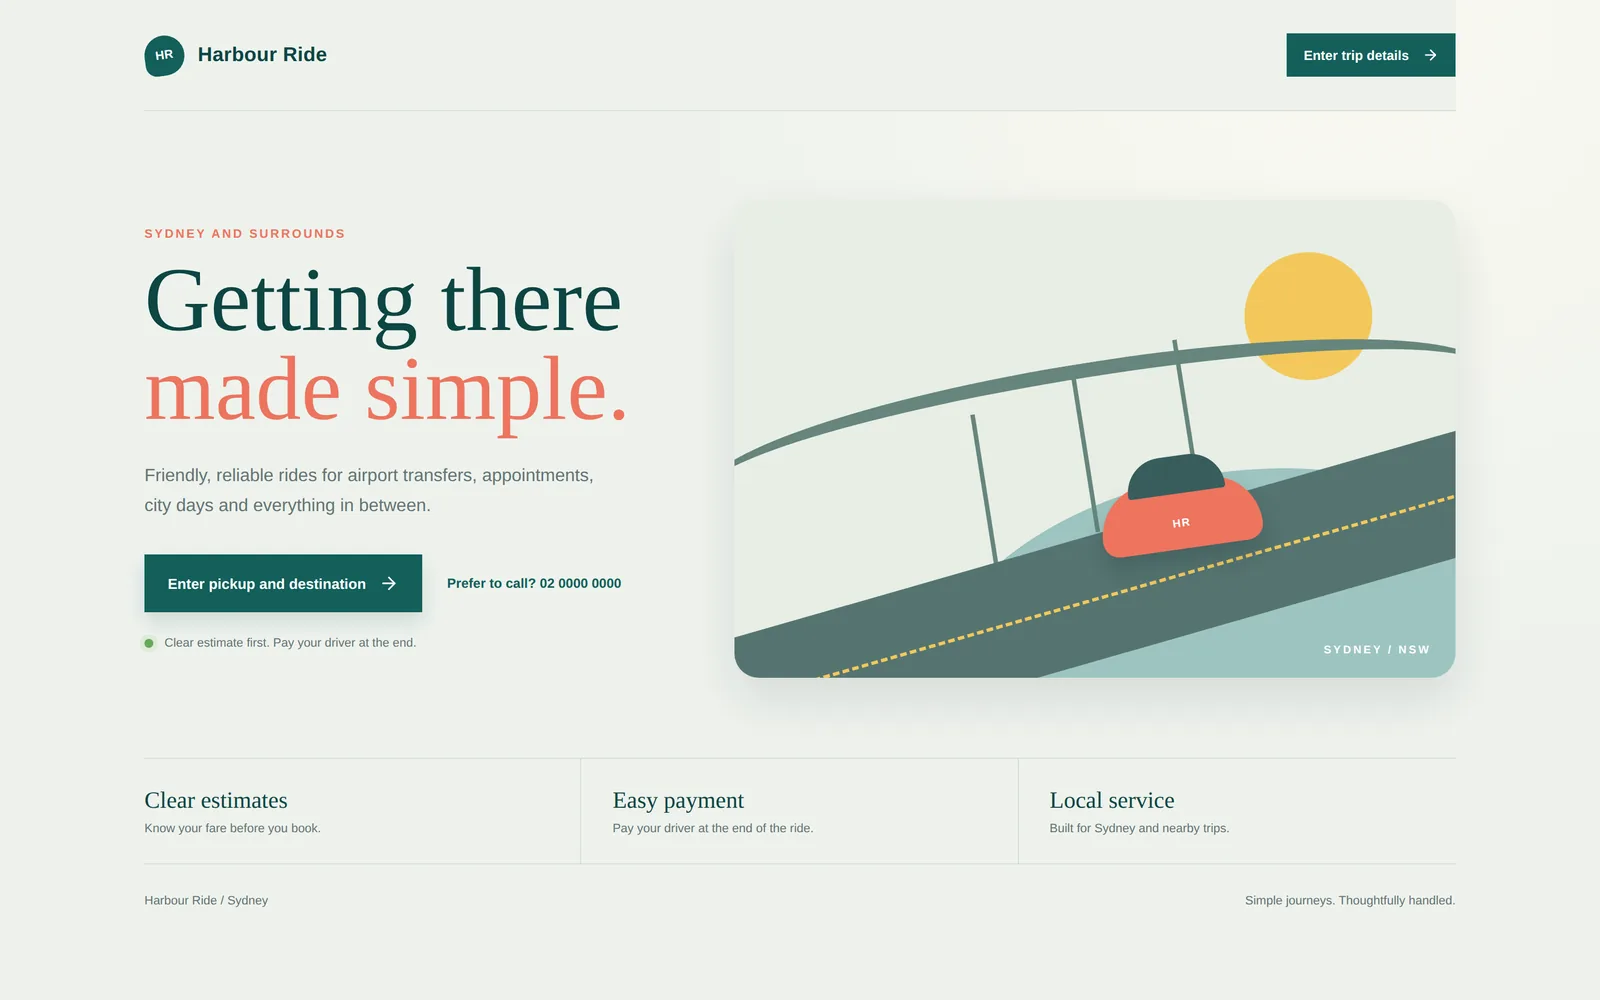
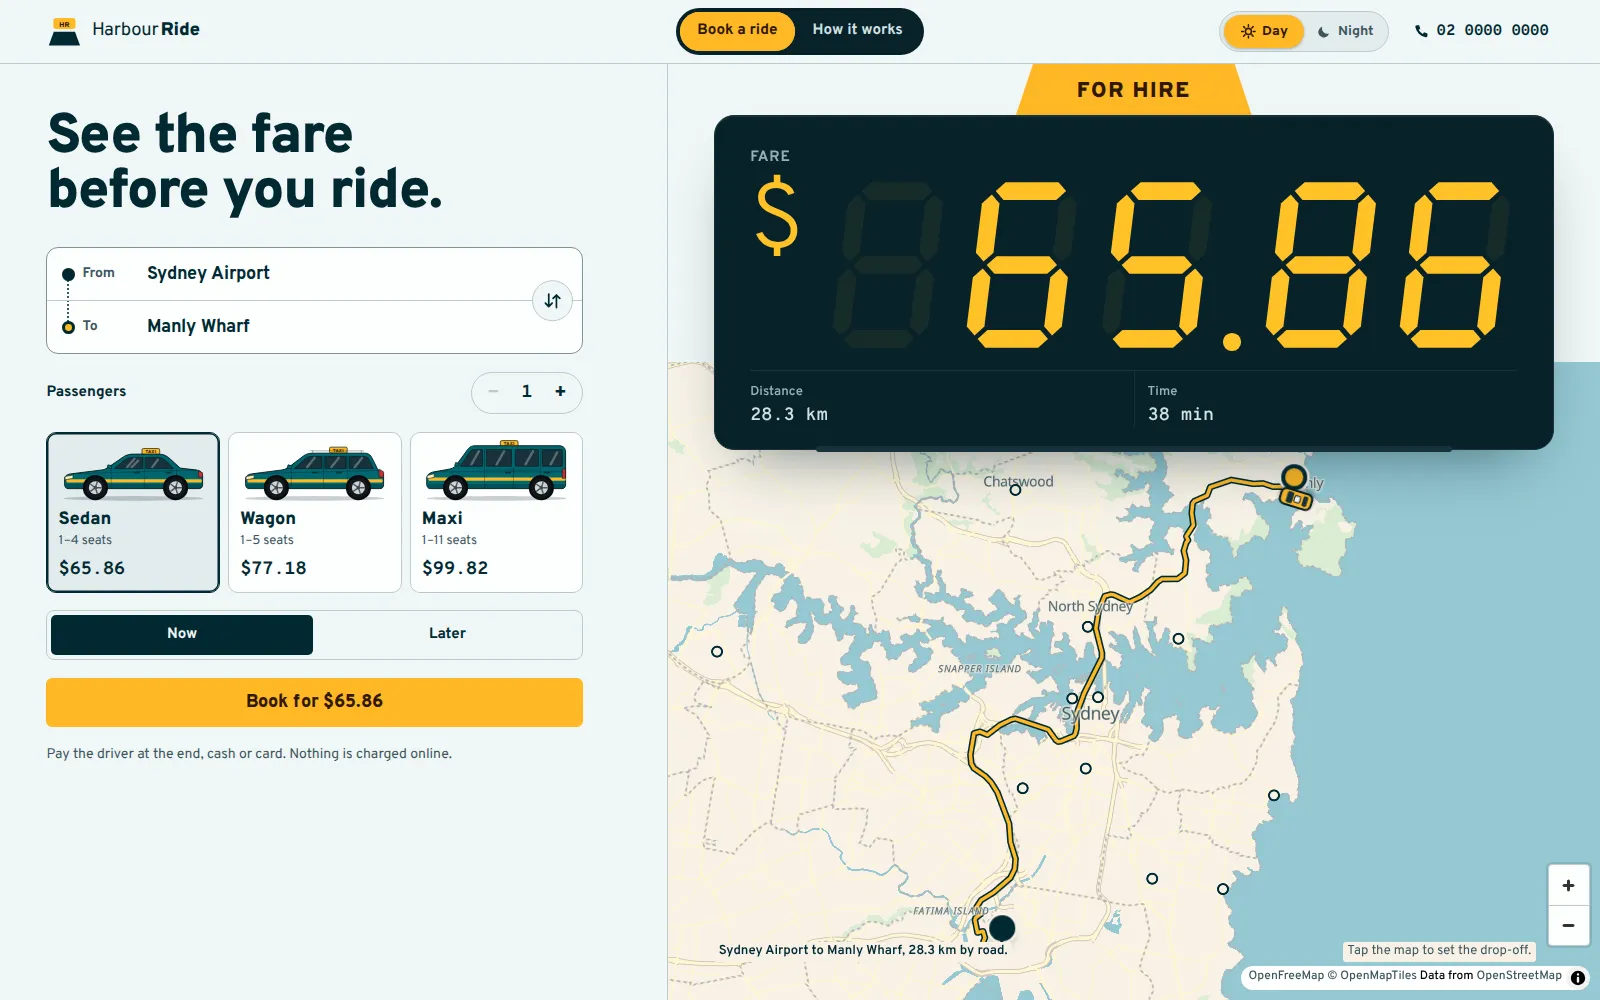
Update Postmen and Harbour Ride sheets for their October redesigns
Postmen: new landing page screenshot, postmark/outbox description, the
security rebuild (private-address blocking, required JWT secret), and
current layers, commit count and dates.

Harbour Ride: new taximeter screenshots, Next.js/MapLibre/Resend stack,
signed quotes, fare formula fix, a live link, and current commit count.

The register and materials lists in data.js are updated to match.

diff --git a/site/index.html b/site/index.html
@@ -107,9 +107,9 @@
     <article class="sheet" id="postmen" data-sheet="A-101" data-sheet-name="Postmen" aria-labelledby="postmen-title">
       <header class="sheet__head">
         <h3 id="postmen-title" class="sheet__title">Postmen</h3>
-        <p class="sheet__kind">API workbench, full stack</p>
+        <p class="sheet__kind">API client, full stack</p>
       </header>
-      <p class="sheet__lede">A Postman-style workbench for testing APIs. Sign in, send any request, read the formatted response, and come back to your history later.</p>
+      <p class="sheet__lede">An API client in the browser. Send a request and the response comes back with a postmark: status, round-trip time and size. Sign in and every request is kept in your outbox.</p>
 
       <div class="sheet__draw">
         <figure class="axo" data-axo aria-describedby="postmen-key">
@@ -122,9 +122,9 @@
                     <div class="pl-erd">
                       <div class="pl-table"><span class="pl-table__name">users</span><span>email, unique</span><span>password</span><span>authProvider</span><span>googleId</span><span>name, avatar</span><span>createdAt</span></div>
                       <span class="pl-erd__rel"></span>
-                      <div class="pl-table"><span class="pl-table__name">requesthistories</span><span>user &rarr; users</span><span>endpoint</span><span>method</span><span>request</span><span>response</span><span>timestamp</span></div>
+                      <div class="pl-table"><span class="pl-table__name">requesthistories</span><span>user &rarr; users</span><span>endpoint</span><span>method</span><span>request</span><span>response, durationMs, sizeBytes</span><span>timestamp</span></div>
                     </div>
-                    <span class="pl-note">MongoDB Atlas, through Mongoose</span>
+                    <span class="pl-note">MongoDB Atlas through Mongoose, indexed by user and time</span>
                   </div>
                 </div>
                 <div class="plate" data-fill="cross" style="--i: 1" aria-hidden="true">
@@ -132,10 +132,12 @@
                     <span class="plate__tag"><b>3</b> Auth</span>
                     <div class="pl-auth">
                       <span class="pl-big">JWT</span>
-                      <span>24 h token, 30 days with Remember me</span>
-                      <span>POST /api/auth/refresh signs a new one</span>
+                      <span>HS256, 24 h token, 30 days with Remember me</span>
+                      <span>Refresh never runs past 30 days from sign-in</span>
+                      <span>No secret set, no tokens signed</span>
                       <span>Passwords hashed with bcrypt, 10 rounds</span>
-                      <span>Google ID tokens checked with google-auth-library</span>
+                      <span>Google sign-in only with a verified email</span>
+                      <span>Sign-in and sending are rate-limited</span>
                     </div>
                   </div>
                 </div>
@@ -160,7 +162,7 @@
                 </div>
                 <div class="plate plate--top" style="--i: 3">
                   <div class="plate__face">
-                    <img class="plate__shot" src="assets/img/postmen.webp" width="1400" height="920" loading="lazy" alt="Postmen landing page: Industrial-grade API testing for modern teams, with a live GET request card showing 200 OK">
+                    <img class="plate__shot" src="assets/img/postmen.webp" width="1400" height="920" loading="lazy" alt="Postmen landing page: Send a request. Get a postmark. Airmail envelopes fly out of the dark, with the request workbench below">
                   </div>
                 </div>
               </div>
@@ -177,8 +179,9 @@
       </div>
 
       <div class="sheet__notes">
-        <p>API testing was spread across tools, so auth and request history were hard to keep hold of. Postmen puts the request builder, formatted responses, saved history and usage stats in one signed-in dashboard.</p>
-        <p>It started as a MERN build with a separate Express server and a Vite client, then was rebuilt as one Next.js app whose route handlers talk to MongoDB directly.</p>
+        <p>Every request is a piece of mail. The address is the URL, the headers are the envelope, and a response comes back stamped: delivered, or returned to sender with its 4xx or 5xx. Paste a cURL command from any API docs and it fills in the method, headers and body.</p>
+        <p>The October 2026 rebuild closed what a code review found. The request proxy could reach internal services and cloud metadata; it now checks every address at connect time, refuses private networks, re-checks each redirect, and stops at 20 seconds or 5&nbsp;MB. Sessions fell back to a public default secret; the server now refuses to sign without a real one.</p>
+        <p>It started as a MERN build with a separate Express server and a Vite client, then became one Next.js app whose route handlers talk to MongoDB directly.</p>
         <p class="sheet__links">
           <a href="https://postmen.vercel.app/" target="_blank" rel="noopener">Open postmen.vercel.app</a>
           <a href="https://github.com/Arshpreet62/Postmen" target="_blank" rel="noopener">Read the code</a>
@@ -188,17 +191,17 @@
       <div class="key" id="postmen-key">
         <p class="key__title label">Key</p>
         <ol class="strata">
-          <li class="stratum" data-fill="open"><span class="stratum__no">1</span><span class="stratum__layer">Interface</span><span class="stratum__spec">Next.js 15 App Router, React 19, Tailwind CSS 4, Radix UI</span></li>
-          <li class="stratum" data-fill="diag"><span class="stratum__no">2</span><span class="stratum__layer">Server</span><span class="stratum__spec">Route handlers for auth, requests, history and stats</span></li>
-          <li class="stratum" data-fill="cross"><span class="stratum__no">3</span><span class="stratum__layer">Auth</span><span class="stratum__spec">JWT with refresh, bcrypt-hashed passwords, Google sign-in</span></li>
-          <li class="stratum" data-fill="stipple"><span class="stratum__no">4</span><span class="stratum__layer">Data</span><span class="stratum__spec">MongoDB Atlas through Mongoose: users and request history</span></li>
+          <li class="stratum" data-fill="open"><span class="stratum__no">1</span><span class="stratum__layer">Interface</span><span class="stratum__spec">Next.js 15 App Router, React 19, Tailwind CSS 4, a canvas hero that pauses off screen</span></li>
+          <li class="stratum" data-fill="diag"><span class="stratum__no">2</span><span class="stratum__layer">Server</span><span class="stratum__spec">Route handlers; the proxy refuses private addresses, 20&nbsp;s and 5&nbsp;MB limits</span></li>
+          <li class="stratum" data-fill="cross"><span class="stratum__no">3</span><span class="stratum__layer">Auth</span><span class="stratum__spec">JWT with capped refresh, bcrypt passwords, verified Google sign-in</span></li>
+          <li class="stratum" data-fill="stipple"><span class="stratum__no">4</span><span class="stratum__layer">Data</span><span class="stratum__spec">MongoDB Atlas through Mongoose: users and an outbox, stats counted in one aggregation</span></li>
         </ol>
-        <p class="key__foot">Tested end to end with Playwright. Hosted on Vercel.</p>
+        <p class="key__foot">Tested end to end with Playwright, private-address blocking included. Hosted on Vercel.</p>
       </div>
 
       <dl class="titleblock sheet__block">
-        <div><dt>Revisions</dt><dd>34 commits</dd></div>
-        <div><dt>Issued</dt><dd>Aug 2025 to Feb 2026</dd></div>
+        <div><dt>Revisions</dt><dd>35 commits</dd></div>
+        <div><dt>Issued</dt><dd>Aug 2025 to Oct 2026</dd></div>
         <div><dt>Status</dt><dd>Live</dd></div>
         <div class="titleblock__sheet"><dt>Sheet</dt><dd>A-101</dd></div>
       </dl>
@@ -312,9 +315,9 @@
     <article class="sheet" id="harbour" data-sheet="A-103" data-sheet-name="Harbour Ride" aria-labelledby="harbour-title">
       <header class="sheet__head">
         <h3 id="harbour-title" class="sheet__title">Harbour Ride</h3>
-        <p class="sheet__kind">Booking prototype, maps and email</p>
+        <p class="sheet__kind">Booking app, maps and email</p>
       </header>
-      <p class="sheet__lede">A taxi booking site for Sydney. Riders see a fare on a real route before they book, and each booking lands in the operator's inbox with a reference number.</p>
+      <p class="sheet__lede">Sydney taxi bookings where the page is a taximeter. Pick a trip and a car, the meter counts up to the fare, the price holds for 15 minutes while you add your details, and booking emails both dispatch and the passenger.</p>
 
       <div class="sheet__draw">
         <figure class="axo" data-axo aria-describedby="harbour-key">
@@ -325,21 +328,23 @@
                   <div class="plate__face">
                     <span class="plate__tag"><b>4</b> Mail</span>
                     <div class="pl-mail">
-                      <span class="pl-mail__subject">New ride request HR-&hellip;</span>
-                      <span>Booking reference</span><span>Passenger</span><span>Phone</span><span>Email</span><span>Pickup</span><span>Destination</span><span>When</span><span>Vehicle</span><span>Estimate</span><span>Notes</span>
+                      <span class="pl-mail__subject">New ride HR-&hellip; &middot; when &middot; car</span>
+                      <span>Ref</span><span>When</span><span>Pickup</span><span>Drop-off</span><span>Car</span><span>Estimate</span><span>Flight</span><span>Passenger</span><span>Phone</span><span>Email</span><span>Notes</span>
                     </div>
-                    <span class="pl-note">Sent to the operator with Nodemailer</span>
+                    <span class="pl-note">Resend: one to dispatch, one to the passenger with a calendar file</span>
                   </div>
                 </div>
                 <div class="plate" data-fill="diag" style="--i: 1" aria-hidden="true">
                   <div class="plate__face">
                     <span class="plate__tag"><b>3</b> Server</span>
                     <div class="pl-routes pl-routes--one">
-                      <span><b>POST</b> /api/estimate <i>geocode, route, price, 15 min to book</i></span>
-                      <span><b>POST</b> /api/bookings <i>one booking per quote, then email</i></span>
+                      <span><b>GET</b> /api/places <i>address search, cached at the CDN</i></span>
+                      <span><b>POST</b> /api/estimate <i>route, every car priced, signed quote</i></span>
+                      <span><b>POST</b> /api/bookings <i>checks the signature, sends once</i></span>
+                      <span><b>GET</b> /api/reverse</span>
                       <span><b>GET</b> /api/health</span>
                     </div>
-                    <span class="pl-note">Express, with Nominatim for addresses and OSRM for routes</span>
+                    <span class="pl-note">Next.js route handlers, Photon for addresses and OSRM for routes</span>
                   </div>
                 </div>
                 <div class="plate" data-fill="dots" style="--i: 2" aria-hidden="true">
@@ -351,13 +356,13 @@
                       <circle class="pl-map__pin" cx="52" cy="118" r="6"/>
                       <circle class="pl-map__pin pl-map__pin--end" cx="252" cy="40" r="6"/>
                     </svg>
-                    <span class="pl-note">Leaflet on OpenStreetMap tiles, the route drawn as a line</span>
+                    <span class="pl-note">MapLibre on OpenFreeMap tiles, coloured from the page's own tokens</span>
                   </div>
                 </div>
                 <div class="plate plate--top" style="--i: 3">
                   <div class="plate__face plate__face--pair">
-                    <img class="pair__desk" src="assets/img/harbour-desktop.webp" width="1600" height="1000" loading="lazy" alt="Harbour Ride landing page: Getting there made simple, with an illustration of a red taxi crossing a bridge">
-                    <img class="pair__phone" src="assets/img/harbour-mobile.webp" width="600" height="1298" loading="lazy" alt="The same page on a phone">
+                    <img class="pair__desk" src="assets/img/harbour-desktop.webp" width="1600" height="1000" loading="lazy" alt="Harbour Ride booking page: See the fare before you ride. A seven-segment taximeter reads $65.86 over a map of the route from Sydney Airport to Manly Wharf">
+                    <img class="pair__phone" src="assets/img/harbour-mobile.webp" width="600" height="1298" loading="lazy" alt="The same page on a phone, the meter above the map">
                   </div>
                 </div>
               </div>
@@ -368,15 +373,16 @@
                 <li style="--i: 0"><b>4</b><span>Mail</span></li>
               </ol>
             </div>
-            <figcaption><span class="label">Exploded view</span> The landing page on desktop and phone, over the map, server and mail.</figcaption>
+            <figcaption><span class="label">Exploded view</span> The booking page on desktop and phone, over the map, server and mail.</figcaption>
           </div>
         </figure>
       </div>
 
       <div class="sheet__notes">
-        <p>The server prices every quote and gives it an expiry, so the fare a rider books is the fare they were shown. A quote can be booked only once, which stops a double submit from creating two bookings.</p>
-        <p>If address lookup fails, the estimate falls back to a demo route instead of blocking the form.</p>
+        <p>Pickup, drop-off and price come from a quote the server signed, valid for 15 minutes, so the fare a rider books is the fare they were shown. Nothing is held in server memory, which matters on serverless. The booking reference and the email's idempotency key both come from a hash of the booking, so a double tap sends once.</p>
+        <p>The rebuild fixed the first version's fare formula, which added the minimum on top of every trip: a 10&nbsp;km sedan came to $64 instead of $42. If routing is down, the estimate falls back to a straight line and says so on the meter, the map and the dispatch email.</p>
         <p class="sheet__links">
+          <a href="https://taxi-app-gamma-inky.vercel.app/" target="_blank" rel="noopener">Book a test ride</a>
           <a href="https://github.com/Arshpreet62/taxi_app" target="_blank" rel="noopener">Read the code</a>
         </p>
       </div>
@@ -384,18 +390,18 @@
       <div class="key" id="harbour-key">
         <p class="key__title label">Key</p>
         <ol class="strata">
-          <li class="stratum" data-fill="open"><span class="stratum__no">1</span><span class="stratum__layer">Interface</span><span class="stratum__spec">React on Vite, Radix Select, a date picker that loads only when needed</span></li>
-          <li class="stratum" data-fill="dots"><span class="stratum__no">2</span><span class="stratum__layer">Map</span><span class="stratum__spec">Leaflet with OpenStreetMap tiles and the route drawn as a line</span></li>
-          <li class="stratum" data-fill="diag"><span class="stratum__no">3</span><span class="stratum__layer">Server</span><span class="stratum__spec">Express API: geocoding with Nominatim, routing with OSRM, fare quotes</span></li>
-          <li class="stratum" data-fill="cross"><span class="stratum__no">4</span><span class="stratum__layer">Mail</span><span class="stratum__spec">Nodemailer sends each booking with its reference</span></li>
+          <li class="stratum" data-fill="open"><span class="stratum__no">1</span><span class="stratum__layer">Interface</span><span class="stratum__spec">Next.js 16 App Router, React 19, a seven-segment meter, day and night shift</span></li>
+          <li class="stratum" data-fill="dots"><span class="stratum__no">2</span><span class="stratum__layer">Map</span><span class="stratum__spec">MapLibre GL on OpenFreeMap tiles: tap to set a stop, drag a pin to move it</span></li>
+          <li class="stratum" data-fill="diag"><span class="stratum__no">3</span><span class="stratum__layer">Server</span><span class="stratum__spec">Route handlers: Photon search, OSRM routing, HMAC-signed quotes</span></li>
+          <li class="stratum" data-fill="cross"><span class="stratum__no">4</span><span class="stratum__layer">Mail</span><span class="stratum__spec">Resend and React Email: dispatch, passenger, calendar file</span></li>
         </ol>
-        <p class="key__foot">Quotes expire after 15 minutes, and each one can be booked once.</p>
+        <p class="key__foot">Quotes are signed and expire after 15 minutes. There is no database: bookings live in the dispatch inbox.</p>
       </div>
 
       <dl class="titleblock sheet__block">
-        <div><dt>Revisions</dt><dd>2 commits</dd></div>
-        <div><dt>Issued</dt><dd>Sep 2026</dd></div>
-        <div><dt>Status</dt><dd>Prototype</dd></div>
+        <div><dt>Revisions</dt><dd>11 commits</dd></div>
+        <div><dt>Issued</dt><dd>Sep to Oct 2026</dd></div>
+        <div><dt>Status</dt><dd>Live prototype</dd></div>
         <div class="titleblock__sheet"><dt>Sheet</dt><dd>A-103</dd></div>
       </dl>
     </article>
@@ -439,7 +445,7 @@
       </li>
       <li>
         <h3>Test the paths people depend on.</h3>
-        <p>Postmen has end-to-end tests for the landing page, sign-in and the dashboard, the three places a broken release would hurt most.</p>
+        <p>Postmen has end-to-end tests for the landing page, sign-in and the dashboard, the places a broken release would hurt most, and for the proxy refusing loopback, decimal-IP and cloud-metadata addresses.</p>
         <a class="ref" href="https://github.com/Arshpreet62/Postmen/tree/main/tests" target="_blank" rel="noopener">tests/</a>
       </li>
       <li>

diff --git a/site/js/data.js b/site/js/data.js
@@ -2,7 +2,7 @@
    and the schedule of materials. main.js renders both into index.html;
    everything else on the page is written directly in index.html.
    Revisions are commit counts and dates are last pushes, read from each
-   repository on 2026-09-29. */
+   repository on 2026-09-29; Postmen and Harbour Ride on 2026-10-08. */
 window.PORTFOLIO = {
   // Every repository, for the drawing register. `no` is the order the
   // repository was created on GitHub (1 = first). `kind: 'build'` rows show by
@@ -13,10 +13,10 @@ window.PORTFOLIO = {
     { no: 27, repo: 'odin-recipes', title: 'Odin Recipes', note: 'Recipe pages, revisiting HTML with The Odin Project.', stack: 'HTML', rev: 4, date: '2026-09-15', kind: 'practice' },
     { no: 26, repo: 'git_test', title: 'Git test', note: 'First commits for The Odin Project Git lesson.', stack: 'Git', rev: 3, date: '2026-09-14', kind: 'practice' },
     { no: 25, repo: 'todo-vanilla', title: 'Todo, vanilla', note: 'To-do app with All, Active and Done filters in plain JavaScript.', stack: 'JavaScript', rev: 1, date: '2026-09-11', kind: 'practice' },
-    { no: 24, repo: 'taxi_app', title: 'Harbour Ride', note: 'Taxi booking prototype: route map, fare quotes, booking emails.', stack: 'React, Leaflet, Express, Nodemailer', rev: 2, date: '2026-09-08', kind: 'build', sheet: 'A-103' },
+    { no: 24, repo: 'taxi_app', title: 'Harbour Ride', note: 'Sydney taxi bookings on a taximeter: signed fare quotes, route map, emails.', stack: 'Next.js, MapLibre, OSRM, Resend', rev: 11, date: '2026-10-08', kind: 'build', live: 'https://taxi-app-gamma-inky.vercel.app/', sheet: 'A-103' },
     { no: 23, repo: 'FullStackOpen-certification', title: 'Full Stack Open', note: 'Coursework from the University of Helsinki course.', stack: 'JavaScript, React, Node', rev: 16, date: '2026-05-03', kind: 'build' },
     { no: 22, repo: 'MY-Portfolio', title: 'Portfolio, 2026 edition one', note: 'Previous portfolio with a MongoDB visitor counter and mailer.', stack: 'Next.js, TypeScript, MongoDB', rev: 14, date: '2026-04-18', kind: 'build' },
-    { no: 19, repo: 'Postmen', title: 'Postmen', note: 'API workbench with accounts, history and usage stats.', stack: 'Next.js, MongoDB, JWT, Playwright', rev: 34, date: '2026-02-17', kind: 'build', live: 'https://postmen.vercel.app/', sheet: 'A-101' },
+    { no: 19, repo: 'Postmen', title: 'Postmen', note: 'API client: postmarked responses, an outbox and usage stats.', stack: 'Next.js, MongoDB, JWT, Playwright', rev: 35, date: '2026-10-08', kind: 'build', live: 'https://postmen.vercel.app/', sheet: 'A-101' },
     { no: 20, repo: 'ZapMail', title: 'ZapMail', note: 'Email app with GitHub and Google sign-in through NextAuth.', stack: 'Next.js, NextAuth, Tailwind', rev: 8, date: '2026-02-13', kind: 'build' },
     { no: 21, repo: '24hr-Story-Feature', title: '24-hour stories', note: 'Story uploads kept in the browser as base64 images.', stack: 'React, TypeScript, Vite', rev: 8, date: '2025-11-25', kind: 'build' },
     { no: 18, repo: 'postman-clone', title: 'Postman clone', note: 'First MERN version of Postmen: Express API, React client.', stack: 'Express, MongoDB, React', rev: 4, date: '2025-08-09', kind: 'build' },
@@ -42,19 +42,19 @@ window.PORTFOLIO = {
   // Schedule of materials: each material and the projects that use it.
   materials: [
     { group: 'Interface', name: 'React', used: ['Postmen', 'PlateMate', 'Harbour Ride', 'TypeSpeed Tester', 'CSS Generator', 'Daily Goals', 'WhatsApp clone', 'Instagram clone'] },
-    { group: 'Interface', name: 'Next.js', used: ['Postmen', 'ZapMail', 'Portfolio'] },
-    { group: 'Interface', name: 'TypeScript', used: ['Postmen', 'ZapMail', 'CSS Generator', '24-hour stories', 'Spotify player clone'] },
-    { group: 'Interface', name: 'Tailwind CSS, Mantine, Radix UI', used: ['Postmen', 'PlateMate', 'Harbour Ride', 'most clones'] },
+    { group: 'Interface', name: 'Next.js', used: ['Postmen', 'Harbour Ride', 'ZapMail', 'Portfolio'] },
+    { group: 'Interface', name: 'TypeScript', used: ['Postmen', 'Harbour Ride', 'ZapMail', 'CSS Generator', '24-hour stories', 'Spotify player clone'] },
+    { group: 'Interface', name: 'Tailwind CSS, Mantine, Radix UI', used: ['Postmen', 'PlateMate', 'most clones'] },
     { group: 'Interface', name: 'Motion', used: ['TypeSpeed Tester', 'CSS Generator', 'Spotify player clone'] },
-    { group: 'Server', name: 'Node.js and Express', used: ['Harbour Ride', 'Postman clone', 'Daily Goals', 'WhatsApp clone', 'Instagram clone'] },
-    { group: 'Server', name: 'Next.js route handlers', used: ['Postmen', 'Portfolio'] },
+    { group: 'Server', name: 'Node.js and Express', used: ['Postman clone', 'Daily Goals', 'WhatsApp clone', 'Instagram clone'] },
+    { group: 'Server', name: 'Next.js route handlers', used: ['Postmen', 'Harbour Ride', 'Portfolio'] },
     { group: 'Server', name: 'JWT, bcrypt, Google OAuth, NextAuth', used: ['Postmen', 'Postman clone', 'ZapMail'] },
-    { group: 'Server', name: 'Nodemailer', used: ['Harbour Ride', 'Portfolio'] },
+    { group: 'Server', name: 'Nodemailer, Resend', used: ['Harbour Ride', 'Portfolio'] },
     { group: 'Data', name: 'MongoDB and Mongoose', used: ['Postmen', 'Postman clone', 'Portfolio'] },
     { group: 'Data', name: 'IndexedDB with Dexie', used: ['PlateMate'] },
-    { group: 'Data', name: 'Leaflet, OSRM, Nominatim', used: ['Harbour Ride'] },
+    { group: 'Data', name: 'MapLibre, OSRM, Photon', used: ['Harbour Ride'] },
     { group: 'Proof', name: 'Playwright', used: ['Postmen'] },
     { group: 'Proof', name: 'Vitest', used: ['PlateMate'] },
-    { group: 'Proof', name: 'Vercel, Render, GitHub Pages', used: ['Postmen', 'Daily Goals', 'TypeSpeed Tester', 'Google homepage clone'] },
+    { group: 'Proof', name: 'Vercel, Render, GitHub Pages', used: ['Postmen', 'Harbour Ride', 'Daily Goals', 'TypeSpeed Tester', 'Google homepage clone'] },
   ],
 };
